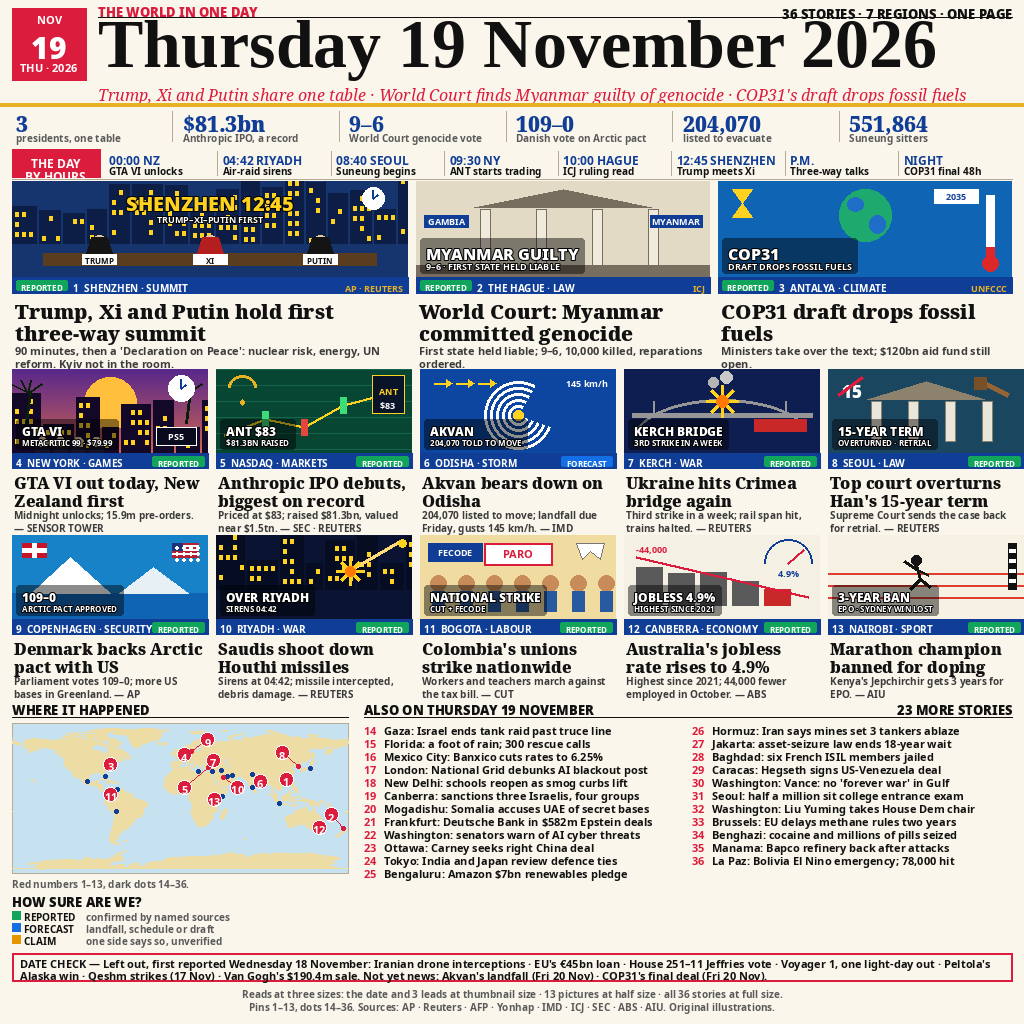
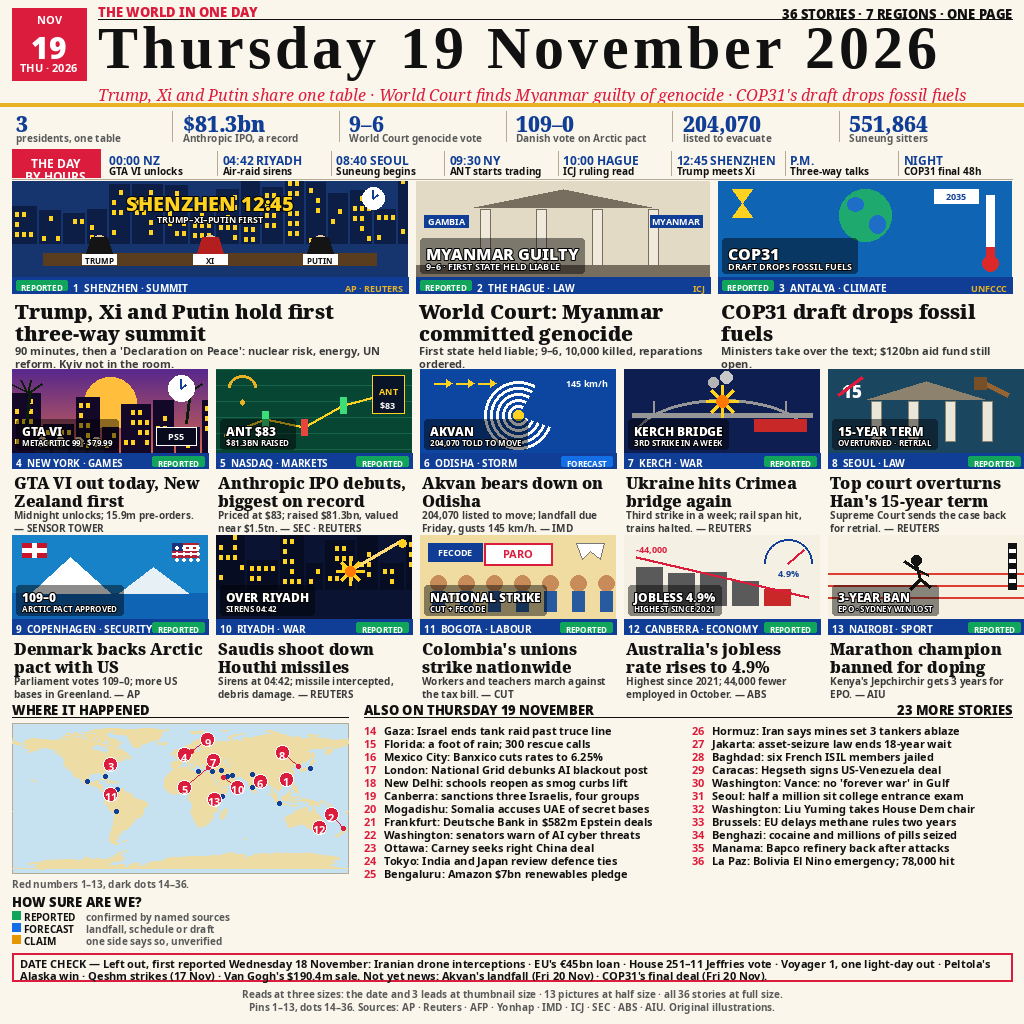
v16: masthead date 60px with letter-spacing to same 839px width, rule y 19 with space above and below

Changed region(s): [[0.375, 0.0, 0.9062, 0.0625], [0.0938, 0.0, 0.375, 0.0938]]

diff --git a/draw.py b/draw.py
@@ -1,11 +1,14 @@
 #!/usr/bin/env python3
-"""news-image-20261119 v15: 36 stories, newspaper front page after the top 1.
+"""news-image-20261119 v16: 36 stories, newspaper front page after the top 1.
 Draws entry.png (1024x1024, deterministic) from world.geo.json only.
-v15 vs v14: user order 2026-11-20 15:49 WIB ("Coba buat garis diatas Thursday
-seperti top 1 itu") — a thin ink rule above the masthead date, like
-hazel-harbor-63's: 1px line at y 17 from x=98 to 1012, between the kicker row
-and the title (kicker ink ends ~y 13, title glyphs start y 20). It starts at
-x=98, not 12, so it does not cut through the red date box. No band shifts.
+v16 vs v15: user order 2026-11-20 15:53 WIB ("Perkecil lagi Thursday nya,
+tapi lebar masih sama, berikan jarak antara garis dan text di atas bawah") —
+Thursday font 68px -> 60px LiberationSerif-Bold (Times, same face as top 1),
+but letter-spaced (tracking ~3.94px/gap, new draw_tracked helper) so it still
+spans exactly the same 839px width. The rule above the title gets breathing
+room: line y 17 -> 19 (6px below the kicker), title drawn at y 14 (glyphs
+26..81, 7px below the line). Deck y 83 and gold rule 103 unchanged — no band
+shifts.
 Run: python3 draw.py  -> writes entry.png in this directory."""
 import json
 import math
@@ -34,7 +37,18 @@ def font(name, size, base=FD):
     return ImageFont.truetype(os.path.join(base, name), size)
 
 
-F_TITLE = font("LiberationSerif-Bold.ttf", 68, FLIB)
+def draw_tracked(d, x, y, text, fnt, fill, target_w):
+    """Draw text letter-spaced so it spans exactly target_w."""
+    nat = sum(d.textlength(ch, font=fnt) for ch in text)
+    gaps = max(len(text) - 1, 1)
+    track = (target_w - nat) / gaps
+    cx = x
+    for ch in text:
+        d.text((cx, y), ch, font=fnt, fill=fill)
+        cx += d.textlength(ch, font=fnt) + track
+
+
+F_TITLE = font("LiberationSerif-Bold.ttf", 60, FLIB)
 F_EYE = font("NotoSans-Black.ttf", 13, FNOTO)
 F_DECKLINE = font("NotoSerif-Italic.ttf", 16, FNOTO)
 F_DATE = font("NotoSans-Black.ttf", 30, FNOTO)
@@ -632,8 +646,8 @@ def main():
     d.text((49, 26), "19", font=F_DATE, fill="white", anchor="ma")
     d.text((49, 60), "THU \u00b7 2026", font=F_DATE2, fill="white", anchor="ma")
     d.text((98, 3), "THE WORLD IN ONE DAY", font=F_EYE, fill=RED)
-    d.line([98, 17, 1012, 17], fill=INK, width=1)
-    d.text((98, 6), "Thursday 19 November 2026", font=F_TITLE, fill=INK)
+    d.line([98, 19, 1012, 19], fill=INK, width=1)
+    draw_tracked(d, 98, 14, "Thursday 19 November 2026", F_TITLE, INK, 839)
     d.text((98, 83), "Trump, Xi and Putin share one table \u00b7 World Court finds "
            "Myanmar guilty of genocide \u00b7 COP31's draft drops fossil fuels",
            font=F_DECKLINE, fill=RED)
